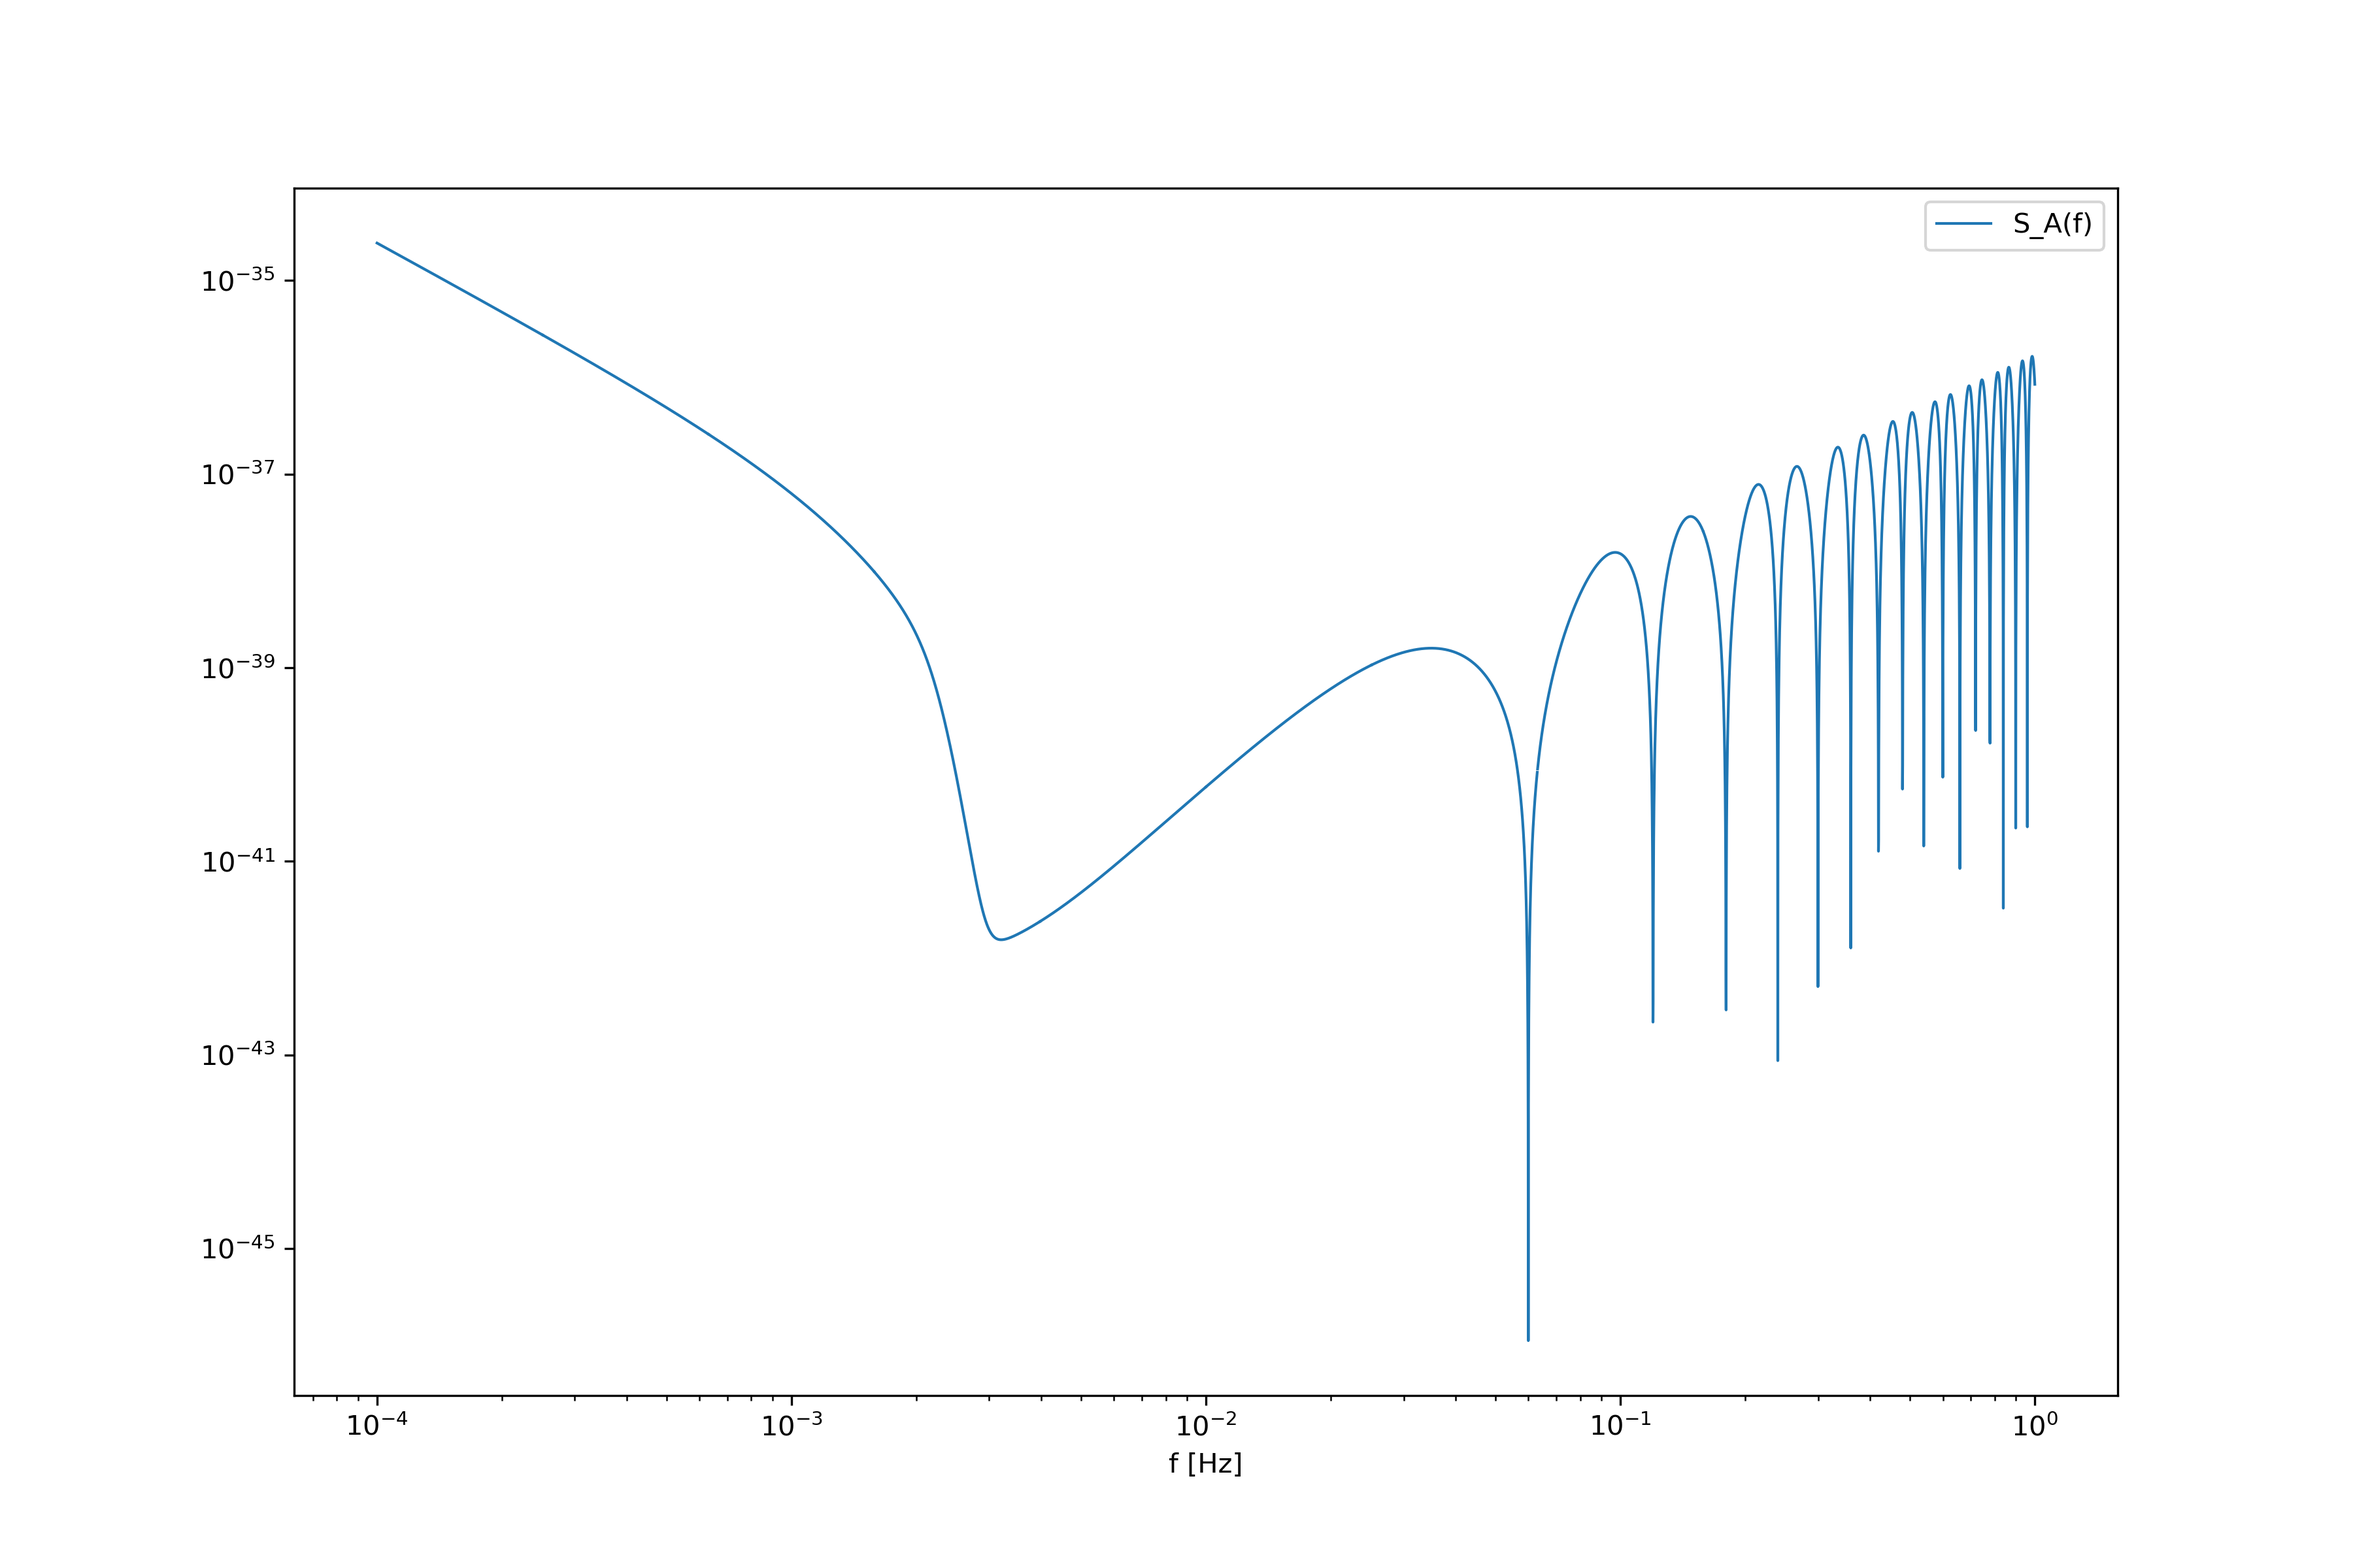
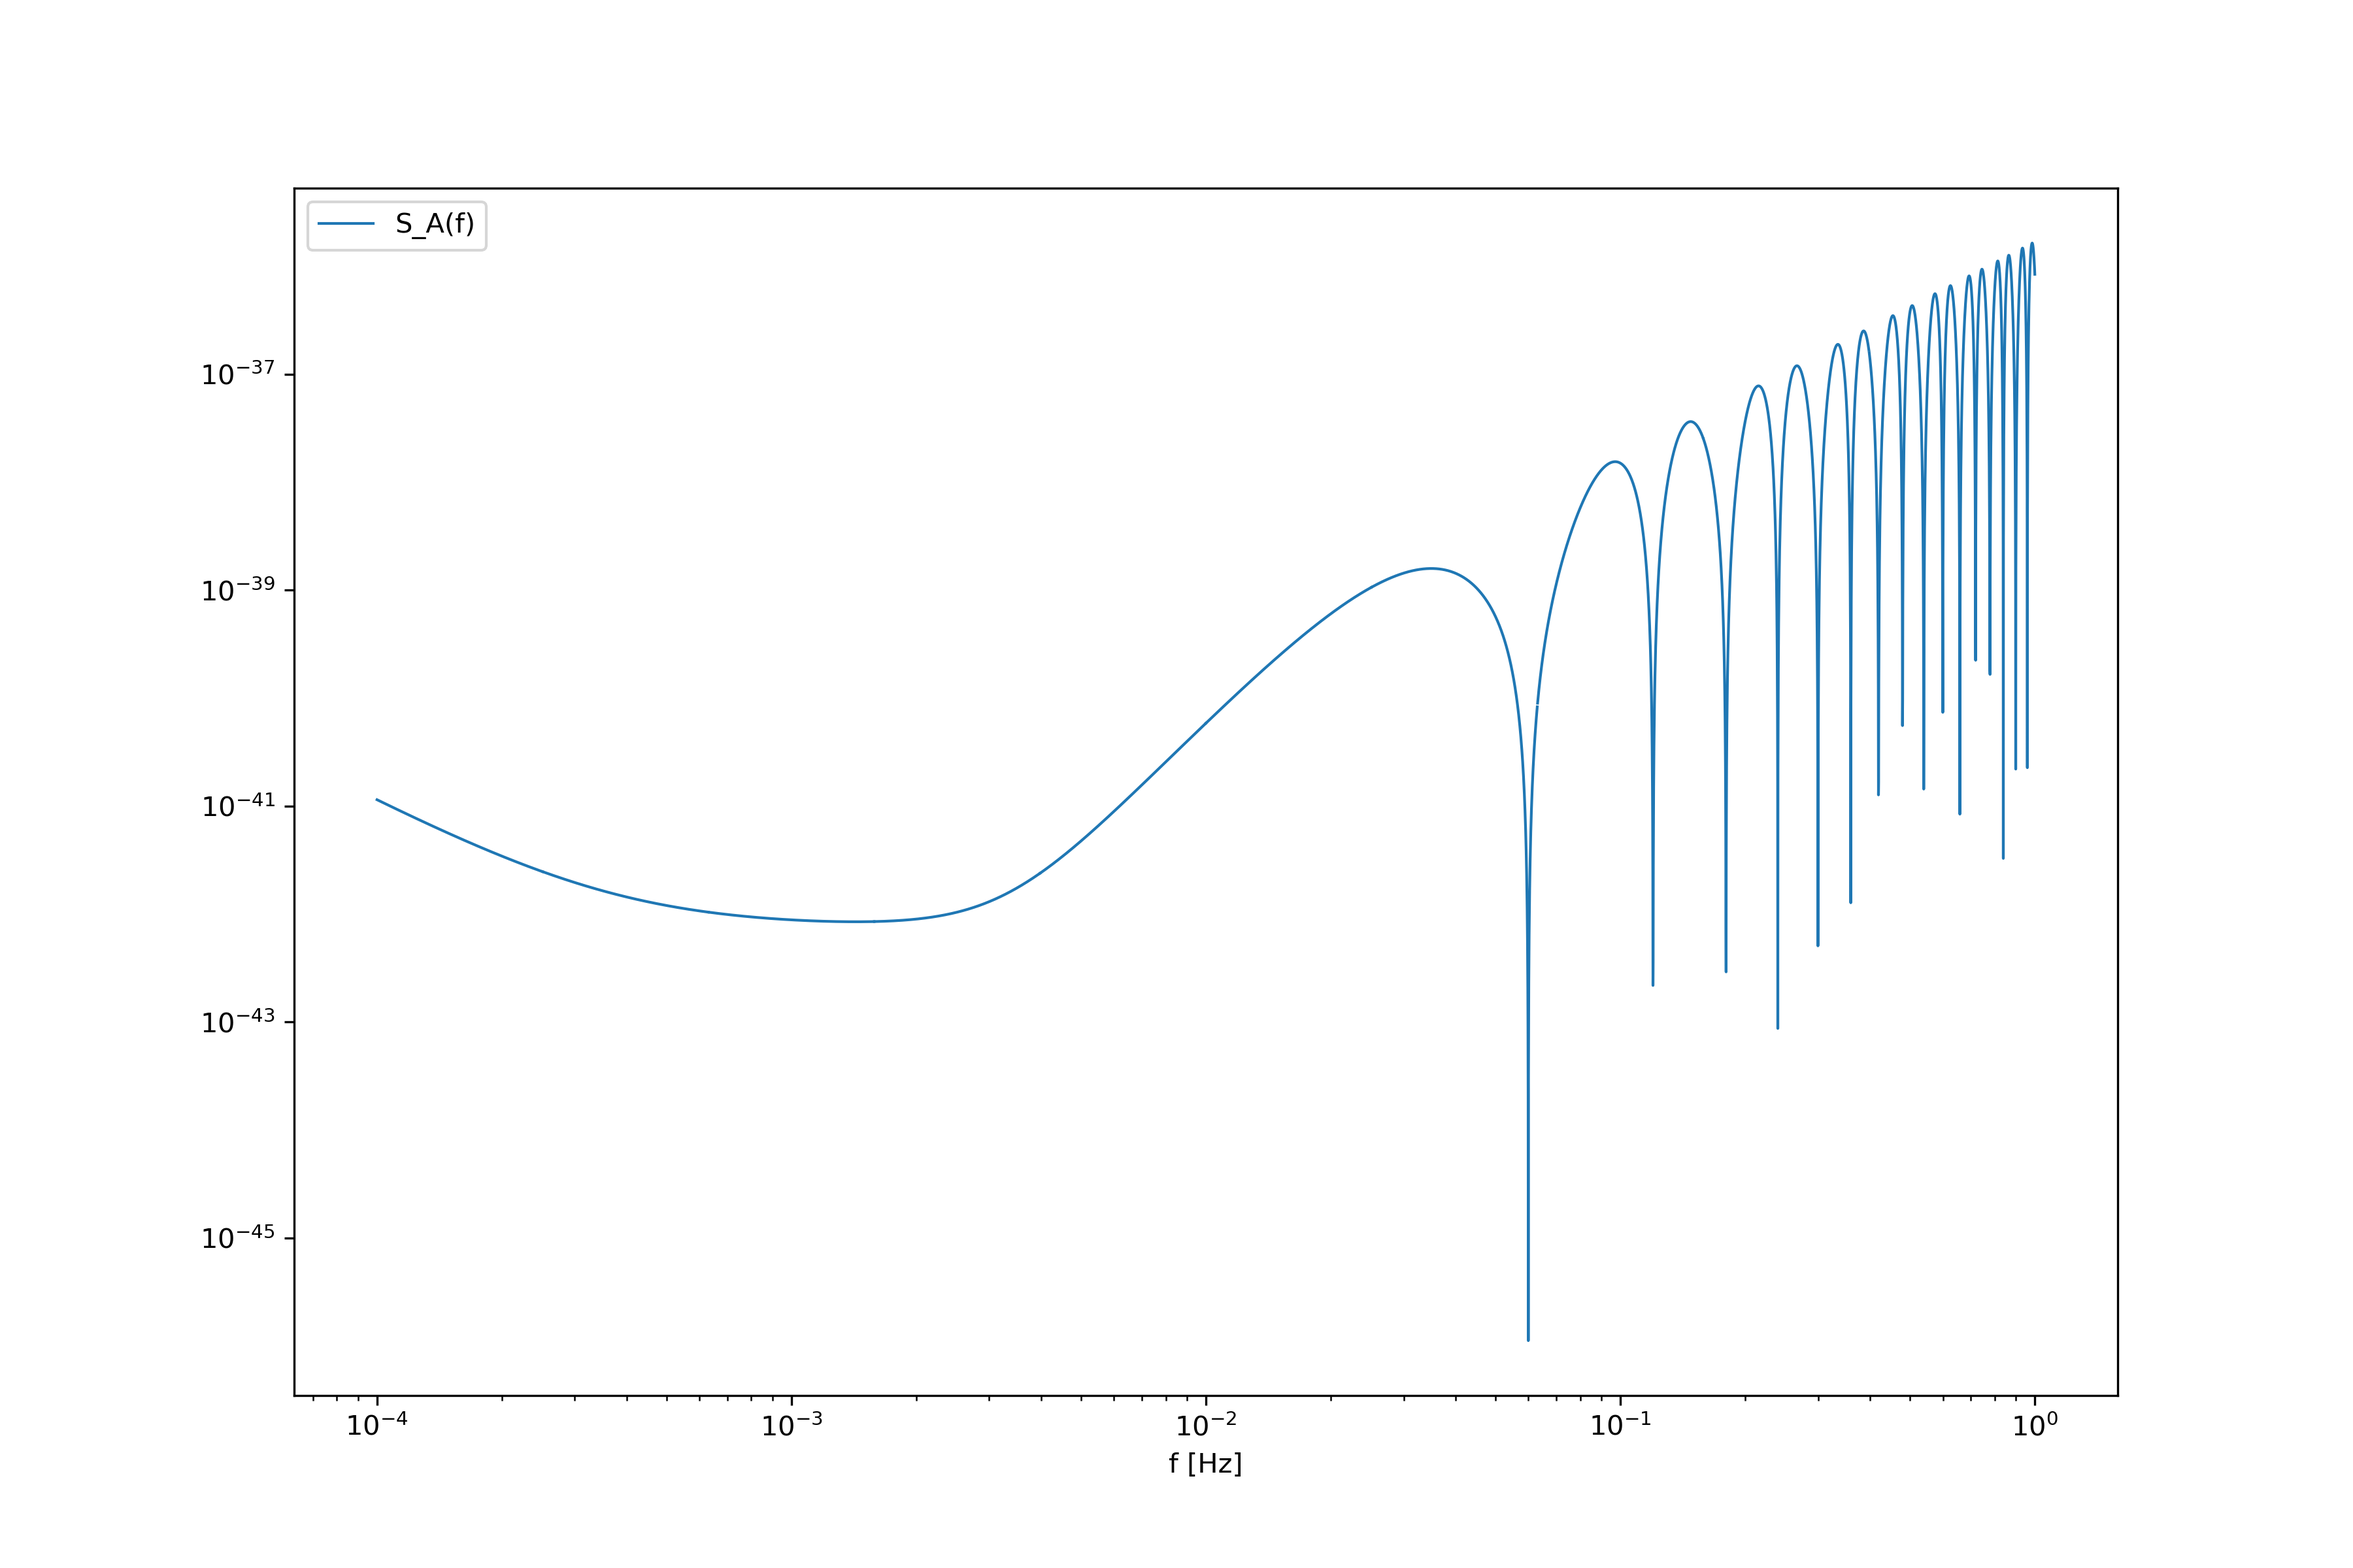
bugfixing and further restricting subset of host galaxes

diff --git a/master_thesis_code/datamodels/parameter_space.py b/master_thesis_code/datamodels/parameter_space.py
@@ -13,7 +13,7 @@ class Parameter:
     unit: str
     lower_limit: float
     upper_limit: float
-    value: float = 0
+    value: float = 0.0
     derivative_epsilon: float = 1e-6
     is_fixed: bool = False
 
@@ -24,52 +24,50 @@ class ParameterSpace:
     Dataclass to manage the parameter space of a simulation.
     """
 
-    M = Parameter(
+    M: Parameter  = Parameter(
         symbol="M", unit="solar masses", lower_limit=1e4, upper_limit=1e7
     )  # mass of the MBH (massive black hole) in solar masses
 
-    mu = Parameter(
+    mu: Parameter = Parameter(
         symbol="mu", unit="solar masses", lower_limit=1, upper_limit=1e2
     )  # mass of the CO (compact object) in solar masses
-    a = Parameter(
+    a: Parameter = Parameter(
         symbol="a", unit="dimensionless", lower_limit=0.0, upper_limit=1
     )  # dimensionless spin of the MBH
-    p0 = Parameter(
+    p0: Parameter = Parameter(
         symbol="p0", unit="meters", lower_limit=10.0, upper_limit=16.0
     )  # Kepler-orbit parameter: separation
-    e0 = Parameter(
+    e0: Parameter = Parameter(
         symbol="e0", unit="dimensionless", lower_limit=0.0, upper_limit=0.7
     )  # Kepler-orbit parameter: eccentricity
-    x0 = Parameter(
+    x0: Parameter = Parameter(
         symbol="x0", unit="dimensionless", lower_limit=-1.0, upper_limit=1.0
     )  # Kepler-orbit parameter: x_I0=cosI (I is the inclination)
-    dist = Parameter(
+    dist: Parameter = Parameter(
         symbol="dist", unit="Gpc", lower_limit=0.1, upper_limit=3
     )  # luminosity distance
-    qS = Parameter(
+    qS: Parameter = Parameter(
         symbol="qS", unit="radian", lower_limit=0.0, upper_limit=np.pi
     )  # Sky location polar angle in ecliptic coordinates.
-    phiS = Parameter(
+    phiS: Parameter = Parameter(
         symbol="phiS", unit="radian", lower_limit=0.0, upper_limit=2 * np.pi
     )  # Sky location azimuthal angle in ecliptic coordinates.
-    qK = Parameter(
+    qK: Parameter = Parameter(
         symbol="qK", unit="radian", lower_limit=0.0, upper_limit=np.pi
     )  # Initial BH spin polar angle in ecliptic coordinates.
-    phiK = Parameter(
+    phiK: Parameter = Parameter(
         symbol="phiK", unit="radian", lower_limit=0.0, upper_limit=2 * np.pi
     )  # Initial BH spin azimuthal angle in ecliptic coordinates.
-    Phi_phi0 = Parameter(
+    Phi_phi0: Parameter = Parameter(
         symbol="Phi_phi0", unit="radian", lower_limit=0.0, upper_limit=2 * np.pi
     )  # initial azimuthal phase
-    Phi_theta0 = Parameter(
+    Phi_theta0: Parameter = Parameter(
         symbol="Phi_theta0", unit="radian", lower_limit=0.0, upper_limit=2 * np.pi
     )  # initial polar phase
-    Phi_r0 = Parameter(
+    Phi_r0: Parameter = Parameter(
         symbol="Phi_r0", unit="radian", lower_limit=0.0, upper_limit=2 * np.pi
     )  # initial radial phase
 
-    def __init__(self):
-        self.randomize_parameters()
 
     def randomize_parameter(self, parameter: Parameter) -> None:
         upper_limit = parameter.upper_limit

diff --git a/master_thesis_code/galaxy_catalogue/handler.py b/master_thesis_code/galaxy_catalogue/handler.py
@@ -1,9 +1,12 @@
 from enum import Enum
 import pandas as pd
 import numpy as np
+from collections.abc import Iterable
 from dataclasses import dataclass
 import logging
 from typing import Tuple
+
+from master_thesis_code.decorators import timer_decorator
 
 _LOGGER = logging.getLogger()
 
@@ -243,31 +246,27 @@ class GalaxyCatalogueHandler:
             - np.pi / 2
         ) * (-1)
 
-    def get_random_host_in_mass_range(
-        self, lower_limit: float, upper_limit: float
-    ) -> HostGalaxy:
-        max_iter = 10000
-        iter = 0
-        while True:
-            host = self.reduced_galaxy_catalog.sample().iloc[0]
-            if (host[InternalCatalogColumns.BH_MASS_COLUMN] >= lower_limit) and (
-                host[InternalCatalogColumns.BH_MASS_COLUMN] <= upper_limit
-            ):
-                return HostGalaxy(
+    @timer_decorator    
+    def get_random_hosts_in_mass_range(
+            self, lower_limit: float, upper_limit: float, max_dist: float = 4.5
+    ) -> Iterable:        
+        host_galaxies = self.reduced_galaxy_catalog[
+            (self.reduced_galaxy_catalog[InternalCatalogColumns.BH_MASS_COLUMN] + self.reduced_galaxy_catalog[InternalCatalogColumns.BH_MASS_ERROR_COLUMN] >= lower_limit) and (
+            self.reduced_galaxy_catalog[InternalCatalogColumns.BH_MASS_COLUMN] - self.reduced_galaxy_catalog[InternalCatalogColumns.BH_MASS_ERROR_COLUMN] <= upper_limit) and (
+            self.reduced_galaxy_catalog[InternalCatalogColumns.LUMINOSITY_DISTANCE] <= max_dist*GPC_TO_MPC
+                )].sample(n=200)
+        return iter([HostGalaxy(
                     phiS=host[InternalCatalogColumns.PHI_S],
                     qS=host[InternalCatalogColumns.THETA_S],
-                    dist=host[InternalCatalogColumns.LUMINOSITY_DISTANCE],
-                    dist_error=host[InternalCatalogColumns.LUMINOSITY_DISTANCE_ERROR],
+                    dist=host[InternalCatalogColumns.LUMINOSITY_DISTANCE]*1e-3,
+                    dist_error=host[InternalCatalogColumns.LUMINOSITY_DISTANCE_ERROR]*1e-3,
                     z=host[InternalCatalogColumns.REDSHIFT],
                     z_error=host[InternalCatalogColumns.REDSHIFT_ERROR],
                     M=host[InternalCatalogColumns.BH_MASS_COLUMN],
                     M_error=host[InternalCatalogColumns.BH_MASS_ERROR_COLUMN],
-                    catalog_index=int(host.name),
-                )
-            if max_iter <= iter:
-                raise Exception("maximum iterations reached in search for host galaxy.")
-            iter += 1
-
+                    catalog_index=index,
+                ) for index, host in host_galaxies.iterrows()])
+            
 
 def _polar_angle_to_declination(polar_angle: float) -> float:
     return np.pi / 2 - polar_angle

diff --git a/master_thesis_code/parameter_estimation/parameter_estimation.py b/master_thesis_code/parameter_estimation/parameter_estimation.py
@@ -58,7 +58,7 @@ class ParameterEstimation:
             self.dt,
             self.T,
         )
-        self.lisa_configuration = LisaTdiConfiguration(observation_time=self.T)
+        self.lisa_configuration = LisaTdiConfiguration()
         _LOGGER.info("parameter estimation initialized.")
 
     @timer_decorator
@@ -78,14 +78,14 @@ class ParameterEstimation:
             cp.array[float]: data series of derivative
         """
 
-        parameter_evaluated_at = parameter.value
+        parameter_evaluated_at = parameter
         derivative_epsilon = parameter.derivative_epsilon
 
         # check that neighboring points are in parameter range as well
         if (
-            (parameter_evaluated_at - 2 * derivative_epsilon) < parameter.lower_limit
+            (parameter_evaluated_at.value - 2 * derivative_epsilon) < parameter.lower_limit
         ) or (
-            (parameter_evaluated_at + 2 * derivative_epsilon) > parameter.upper_limit
+            (parameter_evaluated_at.value + 2 * derivative_epsilon) > parameter.upper_limit
         ):
             raise ParameterOutOfBoundsError(
                 "Tried to set parameter to value out of bounds in derivative."
@@ -94,10 +94,11 @@ class ParameterEstimation:
         five_point_stencil_steps = [-2.0, -1.0, 1.0, 2.0]
         lisa_responses = []
         for step in five_point_stencil_steps:
+            parameter.value = parameter_evaluated_at.value + step * derivative_epsilon
             setattr(
                 self.parameter_space,
                 parameter.symbol,
-                parameter_evaluated_at + step * derivative_epsilon,
+                parameter,
             )
             lisa_responses.append(self.generate_lisa_response())
         lisa_responses = self._crop_to_same_length(lisa_responses)

diff --git a/master_thesis_code/main.py b/master_thesis_code/main.py
@@ -89,6 +89,7 @@ def data_simulation(
 
     counter = 0
     iteration = 0
+    host_galaxies = iter([])
     while counter < simulation_steps:
         memory_management.gpu_usage_stamp()
         memory_management.memory_pool.free_all_blocks()
@@ -98,12 +99,17 @@ def data_simulation(
             f"{counter} / {iteration} evaluations successful. ({counter/(time()-memory_management._start_time)*60}/min)"
         )
         iteration += 1
-
+        try:
+            host_galaxy = next(host_galaxies)
+        except StopIteration:
+            host_galaxies = galaxy_catalog.get_random_hosts_in_mass_range(
+                parameter_estimation.parameter_space.M.lower_limit,
+                parameter_estimation.parameter_space.M.upper_limit,
+                0.4,
+            ) # CAREFUL dist RESTRICTION ADDED BY HAND FOR FASTER DETECTION RESULTS
+            host_galaxy = next(host_galaxies)
         parameter_estimation.parameter_space.randomize_parameters()
-        host_galaxy = galaxy_catalog.get_random_host_in_mass_range(
-            parameter_estimation.parameter_space.M.lower_limit,
-            parameter_estimation.parameter_space.M.upper_limit,
-        )
+        
         parameter_estimation.parameter_space.set_host_galaxy_parameters(host_galaxy)
 
         _ROOT_LOGGER.debug(

diff --git a/master_thesis_code/LISA_configuration.py b/master_thesis_code/LISA_configuration.py
@@ -39,16 +39,7 @@ b_k = -2.47
 
 @dataclass
 class LisaTdiConfiguration:
-    observation_time: float
-    f_1: float
-    f_k: float
-
-    def __init__(self, observation_time) -> None:
-        self.observation_time = observation_time
-        self.f_1, self.f_k = _compute_galactic_confusion_noise_parameters(
-            observation_time
-        )
-
+    
     def power_spectral_density(
         self, frequencies: cp.array, channel: str = "A"
     ) -> cp.array:
@@ -136,12 +127,6 @@ class LisaTdiConfiguration:
             linewidth=1,
             label="S_TM(f)",
         )
-        plt.plot(
-            cp.asnumpy(fs),
-            cp.asnumpy(self._power_spectral_density_confusion_noise(fs)),
-            linewidth=1,
-            label="S_gal(f)",
-        )
 
         plt.xlabel("f [Hz]")
         plt.legend()
@@ -168,10 +153,3 @@ class LisaTdiConfiguration:
         plt.savefig(figures_directory + "LISA_PSD.png", dpi=300)
         plt.clf()
 
-
-def _compute_galactic_confusion_noise_parameters(
-    observation_time: float,
-) -> Tuple[float, float]:
-    f_1 = 10 ** (a_1 * cp.log10(observation_time) + b_1)
-    f_k = 10 ** (a_k * cp.log10(observation_time) + b_k)
-    return (f_1, f_k)
